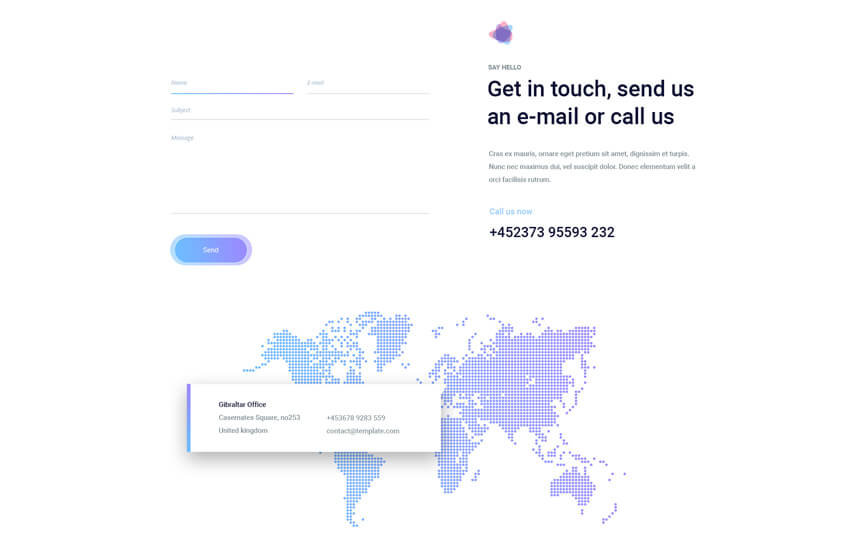
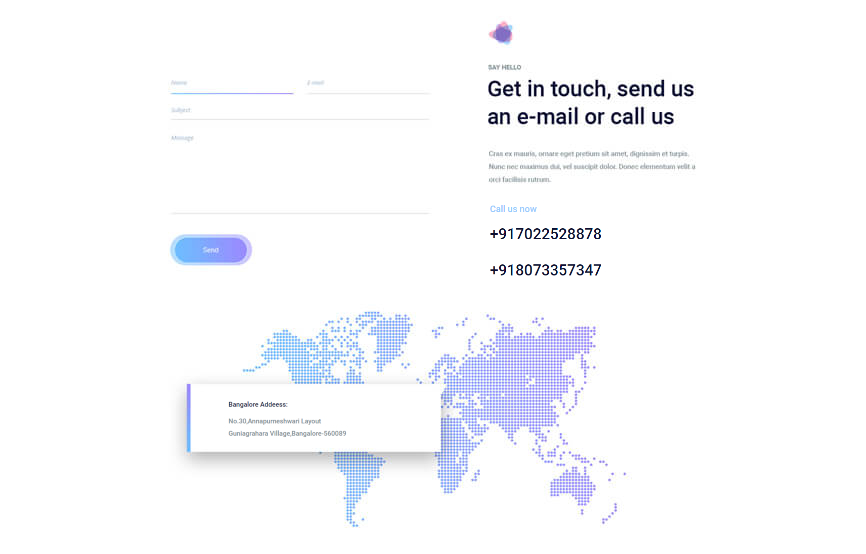
hello

Changed region(s): [[0.2494, 0.7058, 0.4677, 0.7978], [0.5612, 0.4603, 0.6859, 0.5217], [0.5612, 0.3682, 0.7171, 0.4296]]

diff --git a/index.html b/index.html
@@ -210,7 +210,7 @@
                             <img src="img/icon/title-icon.png" alt="">
                             <h2>Who We are </h2>
                         </div>
-                        <p>We never say that We are the Best IT Service Provider. But We are always trying to be better than others. We, established in 2014, are the team of vast experience people from different IT industries, unitedly committed  to deliver unparallel value to our customers. Quality, Cost Effective and End User Satisfaction - are the 3 Key Factors associated with our services.</p>
+                        <p>We never say that We are the Best IT Service Provider. But We are always trying to be better than others. We, established in 2021, are the team of vast experience people from different IT industries, unitedly committed  to deliver unparallel value to our customers. Quality, Cost Effective and End User Satisfaction - are the 3 Key Factors associated with our services.</p>
                     </div>
                     <div class="shap_mobile">
                         <img src="img/iphone4.png" alt="">
@@ -293,61 +293,61 @@
                     <div class="col-lg-4 col-sm-6">
                         <div class="feature_item">
                             <div class="f_icon">
-                                <img src="img/icon/f-icon-1.png" alt="">
+                                <img src="img/icon/f-icon-11.png" alt="">
                             </div>
-                            <h4>Web Designing</h4>
+                            <h4>Backfill</h4>
                             <p>Etiam nec odio vestibulum est mattis effic iturut magna. Pellentesque sit am et tellus blandit. Etiam nec odio vestibul. </p>
-                            <a class="more_btn" href="#">Read More</a>
+                            <a class="more_btn" href="#">Contact US</a>
                         </div>
                     </div>
-                    <div class="col-lg-4 col-sm-6">
+					<div class="col-lg-4 col-sm-6">
                         <div class="feature_item">
                             <div class="f_icon">
-                                <img src="img/icon/f-icon-2.png" alt="">
+                                <img src="img/icon/f-icon-7.png" alt="">
                             </div>
-                            <h4>Mobile Development</h4>
+                            <h4>Break & Fix IMACD</h4>
                             <p>Etiam nec odio vestibulum est mattis effic iturut magna. Pellentesque sit am et tellus blandit. Etiam nec odio vestibul. </p>
-                            <a class="more_btn" href="#">Read More</a>
+                            <a class="more_btn" href="#">Contact US</a>
                         </div>
                     </div>
-                    <div class="col-lg-4 col-sm-6">
+					<div class="col-lg-4 col-sm-6">
+                        <div class="feature_item">
+                            <div class="f_icon">
+                                <img src="img/icon/f-icon-8.png" alt="">
+                            </div>
+                            <h4>Rack and Stack</h4>
+                            <p>Etiam nec odio vestibulum est mattis effic iturut magna. Pellentesque sit am et tellus blandit. Etiam nec odio vestibul. </p>
+                            <a class="more_btn" href="#">Contact US</a>
+                        </div>
+                    </div>
+					<div class="col-lg-4 col-sm-6">
+                        <div class="feature_item">
+                            <div class="f_icon">
+                                <img src="img/icon/f-icon-9.png" alt="">
+                            </div>
+                            <h4>OSS</h4>
+                            <p>Etiam nec odio vestibulum est mattis effic iturut magna. Pellentesque sit am et tellus blandit. Etiam nec odio vestibul. </p>
+                            <a class="more_btn" href="#">Contact US</a>
+                        </div>
+                    </div>
+					<div class="col-lg-4 col-sm-6">
+                        <div class="feature_item">
+                            <div class="f_icon">
+                                <img src="img/icon/f-icon-10.png" alt="">
+                            </div>
+                            <h4>Smart Hands & Eye</h4>
+                            <p>Etiam nec odio vestibulum est mattis effic iturut magna. Pellentesque sit am et tellus blandit. Etiam nec odio vestibul. </p>
+                            <a class="more_btn" href="#">Contact US</a>
+                        </div>
+                    </div>
+					<div class="col-lg-4 col-sm-6">
                         <div class="feature_item">
                             <div class="f_icon">
                                 <img src="img/icon/f-icon-3.png" alt="">
                             </div>
-                            <h4>Business Solution</h4>
+                            <h4>Business Solutions</h4>
                             <p>Etiam nec odio vestibulum est mattis effic iturut magna. Pellentesque sit am et tellus blandit. Etiam nec odio vestibul. </p>
-                            <a class="more_btn" href="#">Read More</a>
-                        </div>
-                    </div>
-                    <div class="col-lg-4 col-sm-6">
-                        <div class="feature_item">
-                            <div class="f_icon">
-                                <img src="img/icon/f-icon-4.png" alt="">
-                            </div>
-                            <h4>E-Commerce Solution</h4>
-                            <p>Etiam nec odio vestibulum est mattis effic iturut magna. Pellentesque sit am et tellus blandit. Etiam nec odio vestibul. </p>
-                            <a class="more_btn" href="#">Read More</a>
-                        </div>
-                    </div>
-                    <div class="col-lg-4 col-sm-6">
-                        <div class="feature_item">
-                            <div class="f_icon">
-                                <img src="img/icon/f-icon-5.png" alt="">
-                            </div>
-                            <h4>CMS Development</h4>
-                            <p>Etiam nec odio vestibulum est mattis effic iturut magna. Pellentesque sit am et tellus blandit. Etiam nec odio vestibul. </p>
-                            <a class="more_btn" href="#">Read More</a>
-                        </div>
-                    </div>
-                    <div class="col-lg-4 col-sm-6">
-                        <div class="feature_item">
-                            <div class="f_icon">
-                                <img src="img/icon/f-icon-6.png" alt="">
-                            </div>
-                            <h4>Cloud Computing</h4>
-                            <p>Etiam nec odio vestibulum est mattis effic iturut magna. Pellentesque sit am et tellus blandit. Etiam nec odio vestibul. </p>
-                            <a class="more_btn" href="#">Read More</a>
+                            <a class="more_btn" href="#">Contact US</a>
                         </div>
                     </div>
                 </div>
@@ -479,7 +479,8 @@
                             </div>
                             <p>Cras ex mauris, ornare eget pretium sit amet, dignissim et turpis. Nunc nec maximus dui, vel suscipit dolor. Donec elementum velit a orci facilisis rutrum.</p>
                             <a href="#"><h5>Call us now</h5></a>
-                            <a href="#"><h4>+452373 95593 232</h4></a>
+                            <a href="#"><h4>+917022528878<br><br>
+    +918073357347</h4></a>
                         </div>
                     </div>
                 </div>
@@ -493,9 +494,9 @@
                 <div class="world_map_inner">
                     <img class="img-fluid" src="img/world-map.png" alt="">
                     <div class="bd-callout">
-                        <h3>Gibraltar Office</h3>
-                        <p>Casemates Square, no253 <br /> United kingdom</p>
-                        <h4><a href="#">+453678 9283 559</a> <a href="#">contact@template.com</a></h4>
+                        <h3>Bangalore Addeess:</h3>
+                        <p>No.30,Annapurneshwari Layout <br /> Guniagrahara Village,Bangalore-560089</p>
+						 
                     </div>
                 </div>
             </div>

diff --git a/service.html b/service.html
@@ -74,6 +74,66 @@
         <section class="service_feature">
             <div class="container">
                 <div class="row feature_inner">
+					<div class="col-lg-4 col-sm-6">
+                        <div class="feature_item">
+                            <div class="f_icon">
+                                <img src="img/icon/f-icon-11.png" alt="">
+                            </div>
+                            <h4>Backfill</h4>
+                            <p>Etiam nec odio vestibulum est mattis effic iturut magna. Pellentesque sit am et tellus blandit. Etiam nec odio vestibul. </p>
+                            <a class="more_btn" href="#">Contact US</a>
+                        </div>
+                    </div>
+					<div class="col-lg-4 col-sm-6">
+                        <div class="feature_item">
+                            <div class="f_icon">
+                                <img src="img/icon/f-icon-7.png" alt="">
+                            </div>
+                            <h4>Break & Fix IMACD</h4>
+                            <p>Etiam nec odio vestibulum est mattis effic iturut magna. Pellentesque sit am et tellus blandit. Etiam nec odio vestibul. </p>
+                            <a class="more_btn" href="#">Contact US</a>
+                        </div>
+                    </div>
+					<div class="col-lg-4 col-sm-6">
+                        <div class="feature_item">
+                            <div class="f_icon">
+                                <img src="img/icon/f-icon-8.png" alt="">
+                            </div>
+                            <h4>Rack and Stack</h4>
+                            <p>Etiam nec odio vestibulum est mattis effic iturut magna. Pellentesque sit am et tellus blandit. Etiam nec odio vestibul. </p>
+                            <a class="more_btn" href="#">Contact US</a>
+                        </div>
+                    </div>
+					<div class="col-lg-4 col-sm-6">
+                        <div class="feature_item">
+                            <div class="f_icon">
+                                <img src="img/icon/f-icon-9.png" alt="">
+                            </div>
+                            <h4>OSS</h4>
+                            <p>Etiam nec odio vestibulum est mattis effic iturut magna. Pellentesque sit am et tellus blandit. Etiam nec odio vestibul. </p>
+                            <a class="more_btn" href="#">Contact US</a>
+                        </div>
+                    </div>
+					<div class="col-lg-4 col-sm-6">
+                        <div class="feature_item">
+                            <div class="f_icon">
+                                <img src="img/icon/f-icon-10.png" alt="">
+                            </div>
+                            <h4>Smart Hands & Eye</h4>
+                            <p>Etiam nec odio vestibulum est mattis effic iturut magna. Pellentesque sit am et tellus blandit. Etiam nec odio vestibul. </p>
+                            <a class="more_btn" href="#">Contact US</a>
+                        </div>
+                    </div>
+					<div class="col-lg-4 col-sm-6">
+                        <div class="feature_item">
+                            <div class="f_icon">
+                                <img src="img/icon/f-icon-3.png" alt="">
+                            </div>
+                            <h4>Business Solutions</h4>
+                            <p>Etiam nec odio vestibulum est mattis effic iturut magna. Pellentesque sit am et tellus blandit. Etiam nec odio vestibul. </p>
+                            <a class="more_btn" href="#">Contact US</a>
+                        </div>
+                    </div>
                     <div class="col-lg-4 col-sm-6">
                         <div class="feature_item">
                             <div class="f_icon">
@@ -94,16 +154,7 @@
                             <a class="more_btn" href="#">Contact US</a>
                         </div>
                     </div>
-                    <div class="col-lg-4 col-sm-6">
-                        <div class="feature_item">
-                            <div class="f_icon">
-                                <img src="img/icon/f-icon-3.png" alt="">
-                            </div>
-                            <h4>Business Solutions</h4>
-                            <p>Etiam nec odio vestibulum est mattis effic iturut magna. Pellentesque sit am et tellus blandit. Etiam nec odio vestibul. </p>
-                            <a class="more_btn" href="#">Contact US</a>
-                        </div>
-                    </div>
+                    
                     <div class="col-lg-4 col-sm-6">
                         <div class="feature_item">
                             <div class="f_icon">
@@ -124,56 +175,8 @@
                             <a class="more_btn" href="#">Contact US</a>
                         </div>
                     </div>
-					<div class="col-lg-4 col-sm-6">
-                        <div class="feature_item">
-                            <div class="f_icon">
-                                <img src="img/icon/f-icon-5.png" alt="">
-                            </div>
-                            <h4>Backfill</h4>
-                            <p>Etiam nec odio vestibulum est mattis effic iturut magna. Pellentesque sit am et tellus blandit. Etiam nec odio vestibul. </p>
-                            <a class="more_btn" href="#">Contact US</a>
-                        </div>
-                    </div>
-					<div class="col-lg-4 col-sm-6">
-                        <div class="feature_item">
-                            <div class="f_icon">
-                                <img src="img/icon/f-icon-5.png" alt="">
-                            </div>
-                            <h4>Break & Fix IMACD</h4>
-                            <p>Etiam nec odio vestibulum est mattis effic iturut magna. Pellentesque sit am et tellus blandit. Etiam nec odio vestibul. </p>
-                            <a class="more_btn" href="#">Contact US</a>
-                        </div>
-                    </div>
-					<div class="col-lg-4 col-sm-6">
-                        <div class="feature_item">
-                            <div class="f_icon">
-                                <img src="img/icon/f-icon-5.png" alt="">
-                            </div>
-                            <h4>Rack and Stack</h4>
-                            <p>Etiam nec odio vestibulum est mattis effic iturut magna. Pellentesque sit am et tellus blandit. Etiam nec odio vestibul. </p>
-                            <a class="more_btn" href="#">Contact US</a>
-                        </div>
-                    </div>
-					<div class="col-lg-4 col-sm-6">
-                        <div class="feature_item">
-                            <div class="f_icon">
-                                <img src="img/icon/f-icon-5.png" alt="">
-                            </div>
-                            <h4>OSS</h4>
-                            <p>Etiam nec odio vestibulum est mattis effic iturut magna. Pellentesque sit am et tellus blandit. Etiam nec odio vestibul. </p>
-                            <a class="more_btn" href="#">Contact US</a>
-                        </div>
-                    </div>
-					<div class="col-lg-4 col-sm-6">
-                        <div class="feature_item">
-                            <div class="f_icon">
-                                <img src="img/icon/f-icon-5.png" alt="">
-                            </div>
-                            <h4>Smart Hands & Eye</h4>
-                            <p>Etiam nec odio vestibulum est mattis effic iturut magna. Pellentesque sit am et tellus blandit. Etiam nec odio vestibul. </p>
-                            <a class="more_btn" href="#">Contact US</a>
-                        </div>
-                    </div>
+					
+					
                     <div class="col-lg-4 col-sm-6">
                         <div class="feature_item">
                             <div class="f_icon">

diff --git a/contact.html b/contact.html
@@ -102,7 +102,7 @@
                             </div>
                             <p>Cras ex mauris, ornare eget pretium sit amet, dignissim et turpis. Nunc nec maximus dui, vel suscipit dolor. Donec elementum velit a orci facilisis rutrum.</p>
                             <a href="tel:+45237395593232"><h5>Call us now</h5></a>
-                            <a href="tel:+45237395593232"><h4>+452373 95593 232</h4></a>
+                            <a href="tel:+45237395593232"><h4>+917022528878<br><br>+918073357347</h4></a>
                         </div>
                     </div>
                 </div>
@@ -111,28 +111,7 @@
         <!--================End Get in Touch Area =================-->
         
         <!--================Map Area =================-->
-        <section class="contact_map_area">
-            <div id="mapBox1" class="mapBox1 row m0" 
-                data-lat="40.701083" 
-                data-lon="-74.1522848" 
-                data-zoom="15" 
-                data-marker="" 
-                data-info=""
-                data-mlat=""
-                data-mlon="">
-            </div>
-            <div class="map_location_box">
-                <div class="container">
-                    <div class="map_l_box_inner">
-                        <div class="bd-callout">
-                            <h3>Gibraltar Office</h3>
-                            <p>Casemates Square, no253 <br /> United kingdom</p>
-                            <h4><a href="#">+453678 9283 559</a> <a href="#">contact@template.com</a></h4>
-                        </div>
-                    </div>
-                </div>
-            </div>
-        </section>
+        
         <!--================End Map Area =================-->
         
         <!--================Footer Area =================-->
